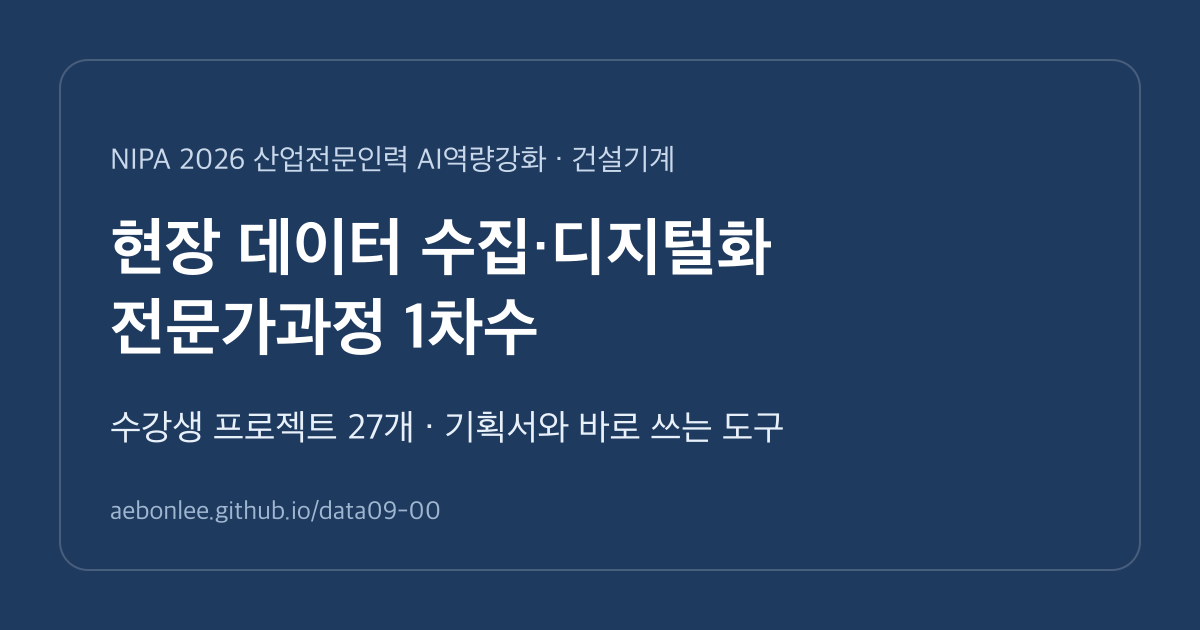
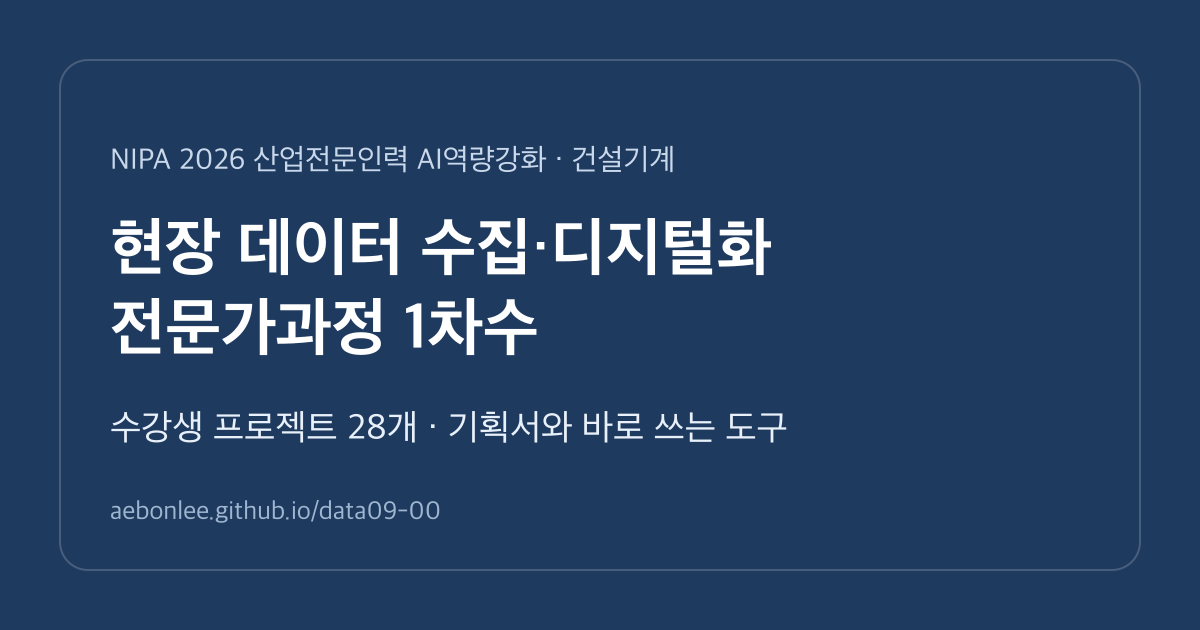
허브 갱신 — data09-28 김세이 · 외자 Invoice · 항차등록 · 원산지증명서(폐쇄망 버전) 추가, OG 이미지 과제 28개

Changed region(s): [[0.3083, 0.6333, 0.6475, 0.6937]]

diff --git a/data/projects.js b/data/projects.js
@@ -495,6 +495,24 @@ window.PROJECTS = [
     "repoUrl": "https://github.com/aebonlee/data09-27",
     "planUrl": "https://github.com/aebonlee/data09-27/blob/main/docs/01_%ED%94%84%EB%A1%9C%EC%A0%9D%ED%8A%B8_%EA%B8%B0%ED%9A%8D%EC%84%9C.md",
     "planDocx": "https://github.com/aebonlee/data09-27/raw/main/docs/01_%ED%94%84%EB%A1%9C%EC%A0%9D%ED%8A%B8_%EA%B8%B0%ED%9A%8D%EC%84%9C.docx"
+  },
+  {
+    "no": "28",
+    "repo": "data09-28",
+    "name": "김세이",
+    "title": "외자 Invoice · 항차등록 확인 · 원산지증명서 (폐쇄망 버전)",
+    "oneLine": "외자 부품 Invoice PDF 를 ERP 업로드 엑셀(PO 번호 포함)로 바꾸고, Invoice 번호로 B/L 을 찾아 항차등록이 끝났는지 확인하고, 원산지증명서 요청 메일을 관리하는 사내 폐쇄망용 도구 — 인터넷 · AI 없이 이 PC 안에서만 동작",
+    "kind": "웹 도구",
+    "stage": "1단계 개발 완료 (2026-09-30)",
+    "lastDate": "2026-09-30",
+    "planNote": "패들릿 「프로젝트 개선」 요청(Invoice PDF → 엑셀 · PO 번호, Invoice 번호 → B/L → 항차등록 확인, 원산지증명서 요청 메일 관리)을 사내 폐쇄망용으로 결합: data09-12 엔진을 옮기고 hd-project16 의 방식 · 테스트 기준을 따름, AI 없음(스캔본은 이 PC 안 OCR), Python 폴더 일괄 변환",
+    "extras": [],
+    "planVersion": "v0.1",
+    "hasDb": true,
+    "toolUrl": "https://aebonlee.github.io/data09-28/",
+    "repoUrl": "https://github.com/aebonlee/data09-28",
+    "planUrl": "https://github.com/aebonlee/data09-28/blob/main/docs/01_%ED%94%84%EB%A1%9C%EC%A0%9D%ED%8A%B8_%EA%B8%B0%ED%9A%8D%EC%84%9C.md",
+    "planDocx": "https://github.com/aebonlee/data09-28/raw/main/docs/01_%ED%94%84%EB%A1%9C%EC%A0%9D%ED%8A%B8_%EA%B8%B0%ED%9A%8D%EC%84%9C.docx"
   }
 ];
 window.PROJECTS_UPDATED = "2026-09-30";
